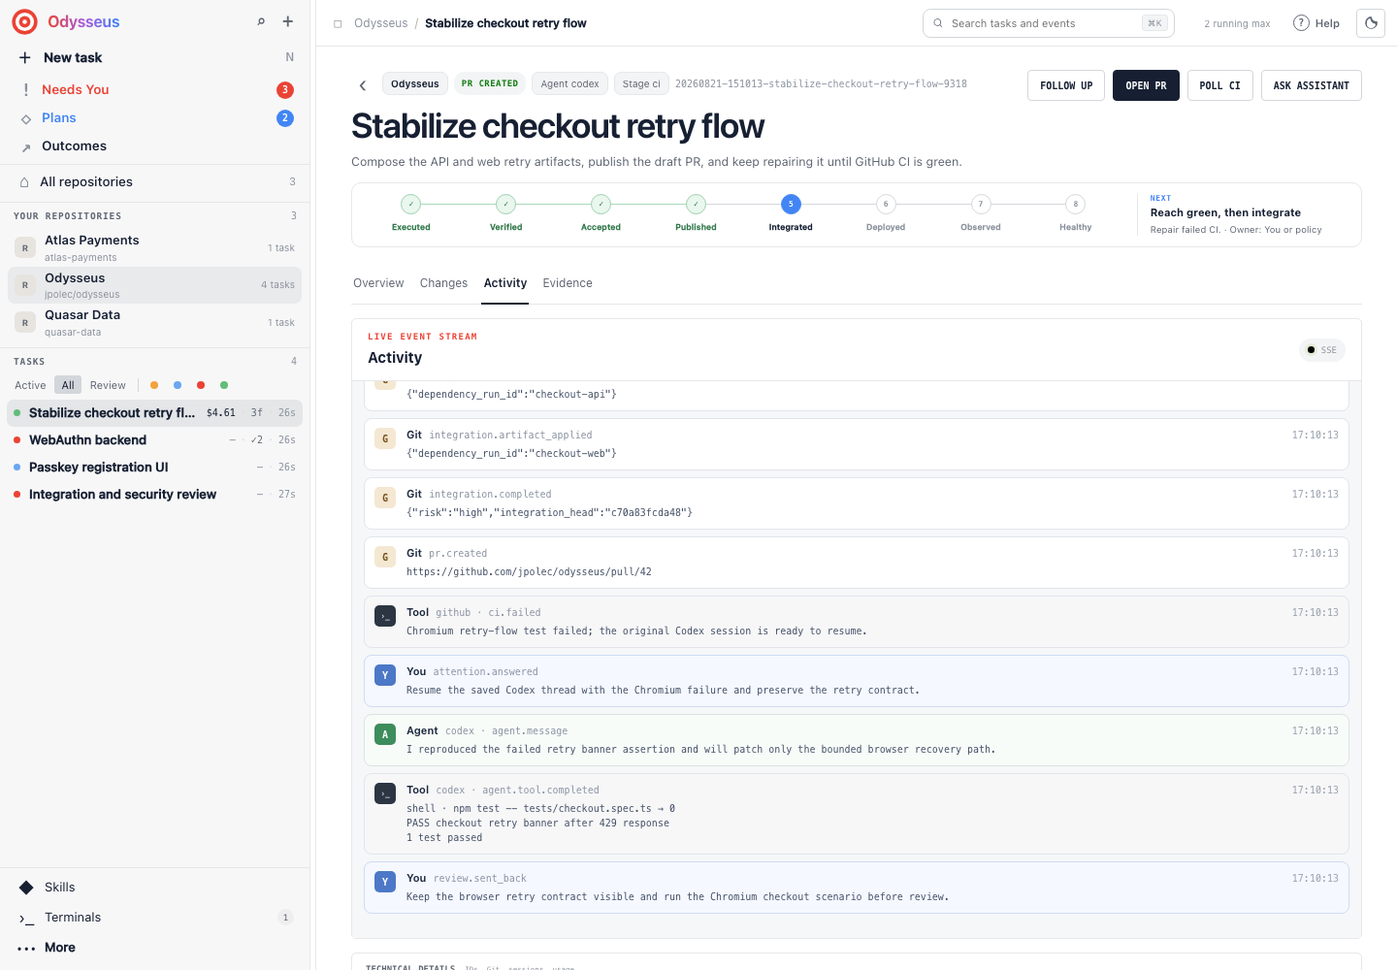
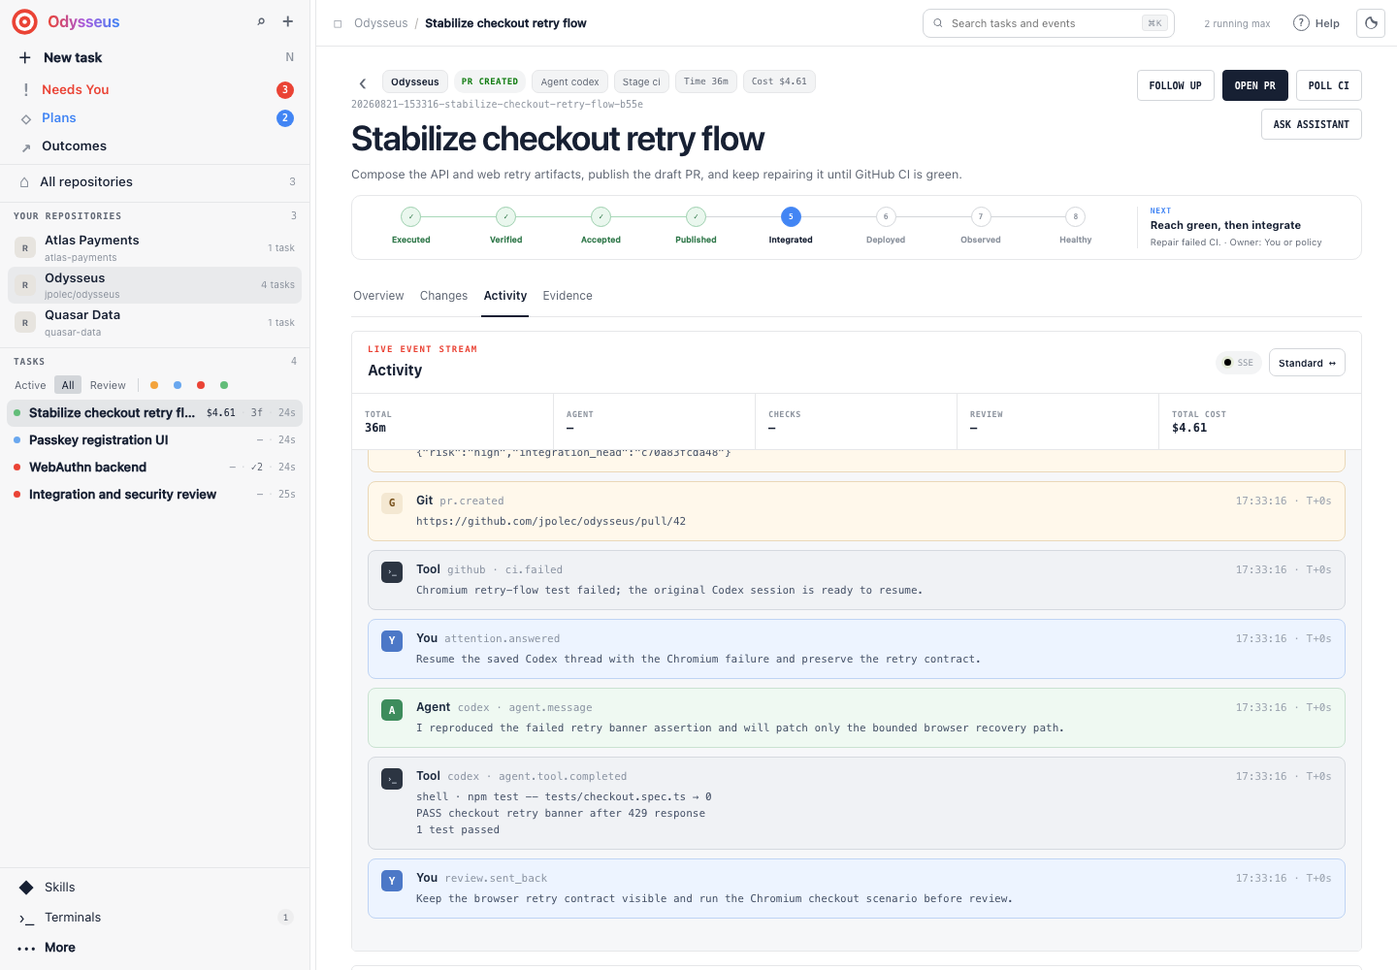
ui: widen activity and expose task economics

diff --git a/web/app.js b/web/app.js
@@ -19,7 +19,7 @@ const state = {
   taskAgentRecommendation: null, taskAgentTimer: null,
   skillsProjectId: "", skillsCatalog: null,
   assistantConversations: {}, config: null, resources: null, decisionDiff: null, decisionDiffRunId: "",
-  assistantOpen: false, helpOpen: false,
+  assistantOpen: false, helpOpen: false, activityFocus: false,
   selectedDecisionPaths: [],
   workListScope: "", workListExpanded: true, portfolioLoading: false,
 };
@@ -147,6 +147,25 @@ function compactMoney(value) {
   const amount = Number(value || 0);
   if (amount > 0 && amount < 0.01) return `$${amount.toFixed(4)}`;
   return `$${amount.toFixed(2)}`;
+}
+function formatDuration(seconds) {
+  const value = Number(seconds);
+  if (!Number.isFinite(value) || value < 0) return "—";
+  if (value < 60) return `${Math.round(value)}s`;
+  const minutes = Math.floor(value / 60);
+  const remainingSeconds = Math.round(value % 60);
+  if (minutes < 60) return remainingSeconds ? `${minutes}m ${remainingSeconds}s` : `${minutes}m`;
+  const hours = Math.floor(minutes / 60);
+  const remainingMinutes = minutes % 60;
+  return remainingMinutes ? `${hours}h ${remainingMinutes}m` : `${hours}h`;
+}
+function runElapsedSeconds(run) {
+  const start = new Date(run?.started_at || run?.created_at || "").getTime();
+  if (!Number.isFinite(start)) return null;
+  const terminal = !activeStatuses.has(run?.status);
+  const endValue = run?.finished_at || run?.artifact_created_at || (terminal ? run?.updated_at : "");
+  const end = endValue ? new Date(endValue).getTime() : Date.now();
+  return Number.isFinite(end) ? Math.max(0, (end - start) / 1000) : null;
 }
 function formatBytes(value) {
   let size = Number(value || 0);
@@ -301,6 +320,7 @@ function setFormSubmitting(form, submitting, activeButton, label) {
 
 function setView(view) {
   if (view === "projects" && !$("#projectsView")) view = "work";
+  if (view !== "tasks" && state.activityFocus) setActivityFocus(false);
   state.view = view;
   document.body.dataset.view = view;
   document.body.classList.toggle("task-open", view === "tasks");
@@ -427,11 +447,23 @@ function activateTab(name) {
 }
 
 function activateTaskSection(name) {
+  if (name !== "activity" && state.activityFocus) setActivityFocus(false);
   state.taskSection = name;
   $$(".task-section-tab").forEach((item) => item.classList.toggle("active", item.dataset.section === name));
   $$(".task-section-pane").forEach((pane) => pane.classList.toggle("active", pane.id === `task-section-${name}`));
   renderVisibleHeavyPanels().catch((error) => toast(error.message, true));
   if (state.helpOpen) renderHelpPanel();
+}
+
+function setActivityFocus(enabled) {
+  state.activityFocus = Boolean(enabled && state.view === "tasks" && state.taskSection === "activity");
+  document.body.classList.toggle("activity-focus", state.activityFocus);
+  const button = $("#activityFocusToggle");
+  if (!button) return;
+  button.setAttribute("aria-pressed", String(state.activityFocus));
+  button.setAttribute("aria-label", state.activityFocus ? "Restore the standard Activity width" : "Widen Activity below the task context");
+  button.title = state.activityFocus ? "Restore the standard Activity width (Esc)" : "Widen Activity below the task context";
+  button.innerHTML = state.activityFocus ? 'Standard <span aria-hidden="true">↔</span>' : 'Widen <span aria-hidden="true">↔</span>';
 }
 
 function filteredRuns() {
@@ -1456,6 +1488,10 @@ function renderDetail(run) {
   $("#detailTitle").textContent = discovered?.title || discovered?.window_name || runTitle(run);
   $("#detailAgent").textContent = `Agent ${run.lane || "—"}`;
   $("#detailStage").textContent = `Stage ${statusLabel(run.stage || run.status)}`;
+  $("#detailElapsed").textContent = `Time ${formatDuration(runElapsedSeconds(run))}`;
+  $("#detailElapsed").title = "Total elapsed task time";
+  $("#detailCost").textContent = `Cost ${run.metrics?.cost_observed ? compactMoney(run.metrics.cost_usd) : "—"}`;
+  $("#detailCost").title = run.metrics?.cost_observed ? "Total observed provider cost" : "Total provider cost not observed";
   $("#detailTask").textContent = interactive ? `Existing ${run.lane} session in tmux ${discovered?.tmux_session || run.tmux_session || "—"}${(discovered?.tmux_target || run.tmux_target) ? `, pane ${discovered?.tmux_target || run.tmux_target}` : ""}.` : run.task;
   $("#observedSession").classList.toggle("hidden", !interactive);
   const decisionVisible = !interactive && ["review", "accepted", "pr_created"].includes(run.status);
@@ -2049,8 +2085,60 @@ function eventPlaceholder(type, message) {
   return `<div class="event event-system"><span class="event-avatar" aria-hidden="true">S</span><div class="event-content"><header><strong>System</strong><span>${escapeHtml(type)}</span><time>—</time></header><div class="event-message">${escapeHtml(message)}</div></div></div>`;
 }
 
+function activityPhaseDurations(events) {
+  const totals = {agent: 0, check: 0, review: 0};
+  const observed = {agent: false, check: false, review: false};
+  const active = {agent: [], check: [], review: []};
+  const phaseFor = (value) => {
+    const phase = String(value || "").toLowerCase();
+    if (["agent", "implement", "implementation"].includes(phase)) return "agent";
+    if (["check", "checks", "ci", "verify", "verification"].includes(phase)) return "check";
+    if (["review", "reviewer", "evaluation", "evaluator"].includes(phase)) return "review";
+    return "";
+  };
+  for (const event of events) {
+    if (!["step.started", "step.completed"].includes(event.type)) continue;
+    const phase = phaseFor(event.data?.step || event.data?.phase);
+    const timestamp = new Date(event.ts || "").getTime();
+    if (!phase || !Number.isFinite(timestamp)) continue;
+    if (event.type === "step.started") active[phase].push(timestamp);
+    else if (active[phase].length) {
+      const started = active[phase].pop();
+      totals[phase] += Math.max(0, (timestamp - started) / 1000);
+      observed[phase] = true;
+    }
+  }
+  return {totals, observed};
+}
+
+function renderActivitySummary() {
+  const run = state.selected || {};
+  const phases = activityPhaseDurations(state.eventsLoadedRunId === state.selectedId ? state.events : []);
+  const items = [
+    ["Total", formatDuration(runElapsedSeconds(run)), "Task start to finish"],
+    ["Agent", phases.observed.agent ? formatDuration(phases.totals.agent) : "—", "Observed worker execution"],
+    ["Checks", phases.observed.check ? formatDuration(phases.totals.check) : "—", "Observed verification"],
+    ["Review", phases.observed.review ? formatDuration(phases.totals.review) : "—", "Observed independent review"],
+    ["Total cost", run.metrics?.cost_observed ? compactMoney(run.metrics.cost_usd) : "—", run.metrics?.cost_observed ? "Observed provider cost" : "Provider cost not observed"],
+  ];
+  $("#activitySummary").innerHTML = items.map(([label, value, title]) => `<span title="${escapeHtml(title)}"><small>${escapeHtml(label)}</small><strong>${escapeHtml(value)}</strong></span>`).join("");
+}
+
+function eventTiming(event, baseline) {
+  const timestamp = new Date(event.ts || "").getTime();
+  const clock = Number.isFinite(timestamp) ? new Date(timestamp).toLocaleTimeString([], {hour: "2-digit", minute: "2-digit", second: "2-digit"}) : "—";
+  const parts = [clock];
+  if (Number.isFinite(timestamp) && Number.isFinite(baseline)) parts.push(`T+${formatDuration(Math.max(0, (timestamp - baseline) / 1000))}`);
+  const elapsed = Number(event.data?.duration_seconds ?? event.data?.elapsed_seconds);
+  if (Number.isFinite(elapsed) && elapsed >= 0) parts.push(`${formatDuration(elapsed)} elapsed`);
+  const cost = Number(event.data?.cost_usd);
+  if (event.data?.cost_usd !== undefined && Number.isFinite(cost) && cost >= 0) parts.push(`${compactMoney(cost)} cost`);
+  return parts.join(" · ");
+}
+
 function renderEvents() {
   const log = $("#eventLog");
+  renderActivitySummary();
   if (state.eventsLoadingRunId === state.selectedId && state.eventsLoadedRunId !== state.selectedId) {
     log.innerHTML = eventPlaceholder("loading", "Reading this task's activity history…");
     return;
@@ -2061,11 +2149,15 @@ function renderEvents() {
   }
   const atBottom = log.scrollHeight - log.scrollTop - log.clientHeight < 80;
   const hiddenCount = Math.max(0, state.events.length - state.eventVisibleLimit);
+  const firstEvent = new Date(state.events[0]?.ts || "").getTime();
+  const runStart = new Date(state.selected?.started_at || state.selected?.created_at || "").getTime();
+  const runDuration = runElapsedSeconds(state.selected);
+  const baseline = Number.isFinite(runStart) && Number.isFinite(firstEvent) && firstEvent >= runStart && firstEvent - runStart <= Math.max(86_400_000, Number(runDuration || 0) * 1000 + 3_600_000) ? runStart : firstEvent;
   const eventRows = state.events.slice(-state.eventVisibleLimit).map((event) => {
     const presentation = eventPresentation(event);
-    const time = new Date(event.ts).toLocaleTimeString([], {hour: "2-digit", minute: "2-digit", second: "2-digit"});
+    const timing = eventTiming(event, baseline);
     const mark = {you: "Y", agent: "A", question: "?", tool: "›_", reviewer: "R", git: "G", failed: "!", system: "S"}[presentation.kind] || "S";
-    return `<div class="event event-${presentation.kind}"><span class="event-avatar" aria-hidden="true">${escapeHtml(mark)}</span><div class="event-content"><header><strong>${escapeHtml(presentation.actor)}</strong><span title="${escapeHtml(event.type)}">${escapeHtml(presentation.detail)}</span><time>${escapeHtml(time)}</time></header><div class="event-message">${escapeHtml(eventMessage(event))}</div></div></div>`;
+    return `<div class="event event-${presentation.kind}"><span class="event-avatar" aria-hidden="true">${escapeHtml(mark)}</span><div class="event-content"><header><strong>${escapeHtml(presentation.actor)}</strong><span title="${escapeHtml(event.type)}">${escapeHtml(presentation.detail)}</span><time>${escapeHtml(timing)}</time></header><div class="event-message">${escapeHtml(eventMessage(event))}</div></div></div>`;
   }).join("");
   log.innerHTML = `${hiddenCount ? `<button class="ghost activity-load-older" id="loadOlderEvents" type="button">Load ${Math.min(150, hiddenCount)} earlier events · ${hiddenCount} hidden</button>` : ""}${eventRows || eventPlaceholder("waiting", "No events yet.")}`;
   $("#loadOlderEvents")?.addEventListener("click", () => { state.eventVisibleLimit += 150; renderEvents(); });
@@ -3432,12 +3524,14 @@ async function init() {
     });
     $("#taskList").addEventListener("scroll", hideTaskHover, {passive: true});
     window.addEventListener("resize", hideTaskHover, {passive: true});
+    $("#activityFocusToggle").addEventListener("click", () => setActivityFocus(!state.activityFocus));
     $("#projectFilter").addEventListener("change", (event) => selectProject(event.target.value)); $("#sessionScope").addEventListener("change", (event) => { state.sessionScope = event.target.value; renderSessions(); }); $("#refreshSessions").addEventListener("click", refreshSessions); $("#refreshAttention").addEventListener("click", refreshAttention); $("#refreshInsights").addEventListener("click", refreshInsights); $("#refreshPortfolio").addEventListener("click", refreshPortfolio); $("#portfolioWindow").addEventListener("change", refreshPortfolio); $("#loadIssues").addEventListener("click", loadIssues); $("#runSearch").addEventListener("click", () => runSearch()); $("#insightSearch").addEventListener("keydown", (event) => { if (event.key === "Enter") runSearch(); }); $("#globalSearch").addEventListener("keydown", (event) => {
       if (event.key === "Enter") { event.preventDefault(); runSearch(event.currentTarget.value); }
       if (event.key === "Escape") { event.currentTarget.value = ""; event.currentTarget.blur(); }
     });
     document.addEventListener("keydown", (event) => {
       if ((event.metaKey || event.ctrlKey) && event.key.toLowerCase() === "k") { event.preventDefault(); $("#globalSearch").focus(); return; }
+      if (event.key === "Escape" && state.activityFocus) { event.preventDefault(); setActivityFocus(false); return; }
       if (event.key === "Escape" && state.helpOpen) { event.preventDefault(); toggleHelp(false); return; }
       if (!event.metaKey && !event.ctrlKey && !event.altKey && event.key.toLowerCase() === "n" && !/input|textarea|select/i.test(event.target.tagName) && !$("dialog[open]")) { event.preventDefault(); $("[data-new-task]").click(); }
     });
@@ -3446,6 +3540,7 @@ async function init() {
     const match = decodeURIComponent(location.hash.slice(1)).match(/^task\/(.+)$/); if (match && state.runs.some((run) => run.id === match[1])) await selectRun(match[1]);
     else { const projectMatch = decodeURIComponent(location.hash.slice(1)).match(/^project\/(.+)$/); if (projectMatch && projectById(projectMatch[1])) selectProject(projectMatch[1]); else { const requestedView = params.get("view"); if (["portfolio", "work", "attention", "epics", "tasks", "sessions", "inbox", "projects", "insights", "github", "settings"].includes(requestedView)) { if (requestedView === "tasks" && state.runs.length) await selectRun(state.runs[0].id); else setView(requestedView); } else setView(state.runs.length ? "portfolio" : "work"); } }
     const requestedSection = params.get("section"); if (["summary", "changes", "activity", "evidence"].includes(requestedSection)) activateTaskSection(requestedSection);
+    if (requestedSection === "activity" && params.get("focus") === "1") setActivityFocus(true);
     const requestedTab = params.get("tab"); if (["diff", "integration", "checks", "context", "review", "evaluation", "ci"].includes(requestedTab)) activateTab(requestedTab);
     const requestedDialog = params.get("dialog"); if (requestedDialog === "task") openTaskDialog({prompt: params.get("prompt") || "", projectId: preferredProjectId()}); else if (requestedDialog === "epic") $("#newEpicButton").click();
     if (params.get("help") === "1") toggleHelp(true);
@@ -3575,6 +3670,7 @@ async function runBrowserRegression() {
   assert(!$(".detail-breadcrumb") && $(".task-context-bar"), "task context is one compact metadata row");
   assert($("#narrativeTitle").textContent === "Agent is working", "running task uses one-line progress");
   assert($("#narrativeCopy").textContent === "Progress appears in Activity.", "running task avoids essay");
+  assert($("#detailElapsed").textContent.startsWith("Time ") && $("#detailCost").textContent.startsWith("Cost "), "task heading exposes total time and cost");
   assert(!$("#executionDetails").open, "execution telemetry starts folded");
   assert($("#executionDetailsSummary").textContent.includes("Tokens") && $("#executionDetailsSummary").textContent.includes("CI"), "folded execution summary remains informative");
   assert($("#summaryAssistant").classList.contains("hidden"), "assistant hidden when no decision is needed");
@@ -3582,6 +3678,14 @@ async function runBrowserRegression() {
   await sleep(160);
   assert($("#eventLog").textContent.includes("Tool") && $("#eventLog").textContent.includes("python -m unittest"), "Activity separates tool execution from agent messages");
   assert($("#eventLog .event-tool .event-avatar"), "tool execution has a distinct visual actor");
+  assert($("#activitySummary").textContent.includes("Total") && $("#activitySummary").textContent.includes("Agent") && $("#activitySummary").textContent.includes("Total cost"), "Activity summarizes total and phase economics");
+  assert($("#eventLog time").textContent.includes("T+"), "each Activity entry shows relative task timing");
+  $("#activityFocusToggle").click();
+  assert(state.activityFocus && document.body.classList.contains("activity-focus"), "Activity widens below the task context");
+  assert(window.innerWidth <= 900 || getComputedStyle($(".project-explorer")).display !== "none", "wide Activity keeps repository navigation visible on desktop");
+  assert($("#activityFocusToggle").textContent.includes("Standard"), "wide Activity exposes the standard-width action");
+  document.dispatchEvent(new KeyboardEvent("keydown", {key: "Escape", bubbles: true}));
+  assert(!state.activityFocus && !document.body.classList.contains("activity-focus"), "Escape restores the task view");
   activateTaskSection("summary");
   const blocked = state.runs.find((run) => run.status === "blocked");
   assert(blocked, "blocked task available");

diff --git a/web/styles.css b/web/styles.css
@@ -177,21 +177,22 @@ body:not([data-view="tasks"]) .task-rail { display: none; }
 .panel-head h3 { margin: 0; font-size: 15px; }
 .live-badge { color: var(--faint); font: 9px var(--mono); }
 .event-log { height: calc(100% - 64px); overflow: auto; padding: 10px 12px 18px; background: #f6f7f9; }
-.event { display: grid; grid-template-columns: 24px minmax(0, 1fr); gap: 9px; margin-bottom: 7px; padding: 9px 10px; border: 1px solid #e1e5ea; border-radius: 8px; color: #26344a; background: white; font: 10px/1.5 var(--mono); }
+.event { display: grid; grid-template-columns: 26px minmax(0, 1fr); gap: 10px; margin-bottom: 7px; padding: 10px 11px; border: 1px solid #e1e5ea; border-radius: 8px; color: #26344a; background: white; font: 11px/1.55 var(--mono); }
 .event-avatar { display: grid; width: 22px; height: 22px; place-items: center; border-radius: 5px; color: #667085; background: #eef1f5; font-weight: 750; }
 .event-content { min-width: 0; }
 .event-content header { display: grid; grid-template-columns: auto minmax(0, 1fr) auto; align-items: baseline; gap: 7px; min-width: 0; }
-.event-content header strong { color: #1d2a3f; font: 650 11px var(--sans); }
+.event-content header strong { color: #1d2a3f; font: 650 12px var(--sans); }
 .event-content header span { overflow: hidden; color: #8a93a2; text-overflow: ellipsis; white-space: nowrap; }
 .event-content time { color: #9ba3af; white-space: nowrap; }
 .event-message { margin-top: 4px; overflow-wrap: anywhere; color: #445066; white-space: pre-wrap; }
-.event-you { border-color: #cfdcf1; background: #f5f8ff; }.event-you .event-avatar { color: white; background: #4c78c7; }
-.event-agent { border-color: #d9e5dc; background: #f8fcf9; }.event-agent .event-avatar { color: white; background: #3d8c5c; }
-.event-question { border-color: #c9def8; background: #f4f9ff; }.event-question .event-avatar { color: white; background: #69a7ef; }
-.event-tool { background: #f7f7f8; }.event-tool .event-avatar { color: #d9e3f0; background: #2c3542; font: 650 8px var(--mono); }
-.event-reviewer { border-color: #ded5ed; background: #faf8fd; }.event-reviewer .event-avatar { color: white; background: #7557a6; }
-.event-git .event-avatar { color: #7b5520; background: #f4e8d2; }
-.event-failed { border-color: #f0c9c5; background: #fff7f6; }.event-failed .event-avatar { color: white; background: #ea4335; }
+.event-system { border-color: #dce1e7; background: #f5f6f8; }.event-system .event-avatar { color: #596579; background: #e4e8ed; }
+.event-you { border-color: #bfd4f4; background: #edf4ff; }.event-you .event-avatar { color: white; background: #4c78c7; }
+.event-agent { border-color: #c9e2d1; background: #eff9f2; }.event-agent .event-avatar { color: white; background: #3d8c5c; }
+.event-question { border-color: #b8d7fa; background: #eaf4ff; }.event-question .event-avatar { color: white; background: #69a7ef; }
+.event-tool { border-color: #d5d9df; background: #f0f2f5; }.event-tool .event-avatar { color: #d9e3f0; background: #2c3542; font: 650 8px var(--mono); }
+.event-reviewer { border-color: #d8caeb; background: #f6f0fc; }.event-reviewer .event-avatar { color: white; background: #7557a6; }
+.event-git { border-color: #ead8b8; background: #fff8eb; }.event-git .event-avatar { color: #7b5520; background: #f4e8d2; }
+.event-failed { border-color: #edbbb6; background: #fff0ef; }.event-failed .event-avatar { color: white; background: #ea4335; }
 .tabs { display: flex; height: 47px; border-bottom: 1px solid var(--line); }
 .tab { position: relative; min-width: 68px; padding: 0 10px; font-size: 9px; }
 .tab.active { color: var(--ink); }
@@ -1786,6 +1787,30 @@ body.help-open .workbench { width: calc(100vw - var(--help-width)); }
 .help-status-legend i.status-needs-action { background: #ee6b61; }
 .help-foot { margin: 18px 0 0; color: var(--faint); font-size: 9.5px; line-height: 1.5; }
 
+/* Activity can widen below the task context without hiding repository context. */
+.activity-panel-actions { display: flex; align-items: center; gap: 7px; }
+.activity-summary { display: grid; grid-template-columns: repeat(5, minmax(90px, 1fr)); min-height: 58px; border-bottom: 1px solid var(--line); background: var(--surface); }
+.activity-summary > span { display: grid; align-content: center; gap: 2px; min-width: 0; padding: 8px 13px; border-right: 1px solid var(--line); }
+.activity-summary > span:last-child { border-right: 0; }
+.activity-summary small { color: var(--faint); font: 650 8.5px var(--mono); letter-spacing: .06em; text-transform: uppercase; }
+.activity-summary strong { overflow: hidden; color: var(--ink); font: 650 12px var(--mono); text-overflow: ellipsis; white-space: nowrap; }
+.activity-panel .event-log { height: calc(100% - 122px); }
+.activity-focus-toggle {
+  min-height: 29px;
+  padding: 0 9px;
+  border: 1px solid var(--line-bright);
+  border-radius: 7px;
+  color: var(--ink);
+  background: var(--surface);
+  font: 600 10px var(--sans);
+}
+.activity-focus-toggle:hover { border-color: #aab0b8; background: var(--surface-2); }
+.activity-focus-toggle span { margin-left: 3px; font: 12px var(--mono); }
+body.activity-focus .run-detail { max-width: none; }
+body.activity-focus .activity-panel { width: 100%; height: min(64vh, 760px); max-height: none; }
+body.activity-focus .activity-panel .event-log { padding: 12px 16px 24px; }
+body.activity-focus .activity-panel .event { margin-bottom: 9px; padding: 11px 13px; }
+
 /* One compact task header followed by one canonical delivery axis. */
 .detail-head { align-items: flex-start; padding-bottom: 0; }
 .detail-heading { max-width: 820px; }
@@ -1793,6 +1818,7 @@ body.help-open .workbench { width: calc(100vw - var(--help-width)); }
 .task-context-bar .back-button { margin-right: 2px; }
 .task-context-repository,
 .task-context-fact { display: inline-flex; min-height: 24px; align-items: center; padding: 0 8px; border: 1px solid var(--line); border-radius: 7px; background: var(--surface-2); white-space: nowrap; }
+.task-context-economics { font-family: var(--mono); font-size: 9.5px; font-variant-numeric: tabular-nums; }
 .task-context-repository { color: var(--ink); font-weight: 650; }
 .task-context-bar .status-pill { min-height: 24px; padding: 0 8px; }
 .detail-heading h2 { margin-top: 10px; }
@@ -1868,6 +1894,8 @@ body.help-open .workbench { width: calc(100vw - var(--help-width)); }
   .lifecycle-track { overflow-x: auto; }
   .lifecycle-step { min-width: 70px; }
   .lifecycle-next { padding: 9px 0 0; border-top: 1px solid var(--line); border-left: 0; }
+  body.activity-focus .activity-panel { height: 66vh; }
+  .activity-summary { grid-template-columns: repeat(5, minmax(82px, 1fr)); overflow-x: auto; }
 }
 
 @media (max-width: 560px) {

diff --git a/web/index.html b/web/index.html
@@ -227,6 +227,8 @@
                   <span class="status-pill" id="detailStatus">—</span>
                   <span class="task-context-fact" id="detailAgent">Agent —</span>
                   <span class="task-context-fact" id="detailStage">Stage —</span>
+                  <span class="task-context-fact task-context-economics" id="detailElapsed">Time —</span>
+                  <span class="task-context-fact task-context-economics" id="detailCost">Cost —</span>
                   <span class="run-id" id="detailId">—</span>
                 </div>
                 <h2 id="detailTitle">—</h2><p id="detailTask">—</p>
@@ -326,7 +328,7 @@
                   </section>
                 </section>
                 <section class="task-section-pane" id="task-section-activity">
-                  <section class="panel workspace-panel activity-panel"><div class="panel-head"><div><p class="eyebrow">LIVE EVENT STREAM</p><h3>Activity</h3></div><span class="live-badge"><i></i> SSE</span></div><div class="event-log" id="eventLog"></div></section>
+                  <section class="panel workspace-panel activity-panel"><div class="panel-head"><div><p class="eyebrow">LIVE EVENT STREAM</p><h3>Activity</h3></div><div class="activity-panel-actions"><span class="live-badge"><i></i> SSE</span><button class="activity-focus-toggle" id="activityFocusToggle" type="button" aria-pressed="false" aria-label="Widen Activity below the task context" title="Widen Activity below the task context">Widen <span aria-hidden="true">↔</span></button></div></div><div class="activity-summary" id="activitySummary" aria-label="Task time and cost breakdown"></div><div class="event-log" id="eventLog"></div></section>
                 </section>
                 <section class="task-section-pane" id="task-section-evidence">
                   <section class="panel workspace-panel inspector-panel">

diff --git a/CHANGELOG.md b/CHANGELOG.md
@@ -14,6 +14,11 @@ Git; this file records observable operator and product changes.
 
 ## Unreleased
 
+- Enlarged Activity typography and added a wide event stream below the retained
+  task context, with distinct actor backgrounds and Escape to restore its size.
+- Added honest task economics beside the prompt and inside Activity: total
+  elapsed time, observed Agent/Checks/Review time, per-event relative timing,
+  reported event cost where available, and total observed provider cost.
 - Reworked the web shell around four primary operator surfaces: Home, Needs
   You, Plans, and Outcomes, while keeping repositories and task history in the
   persistent sidebar.
